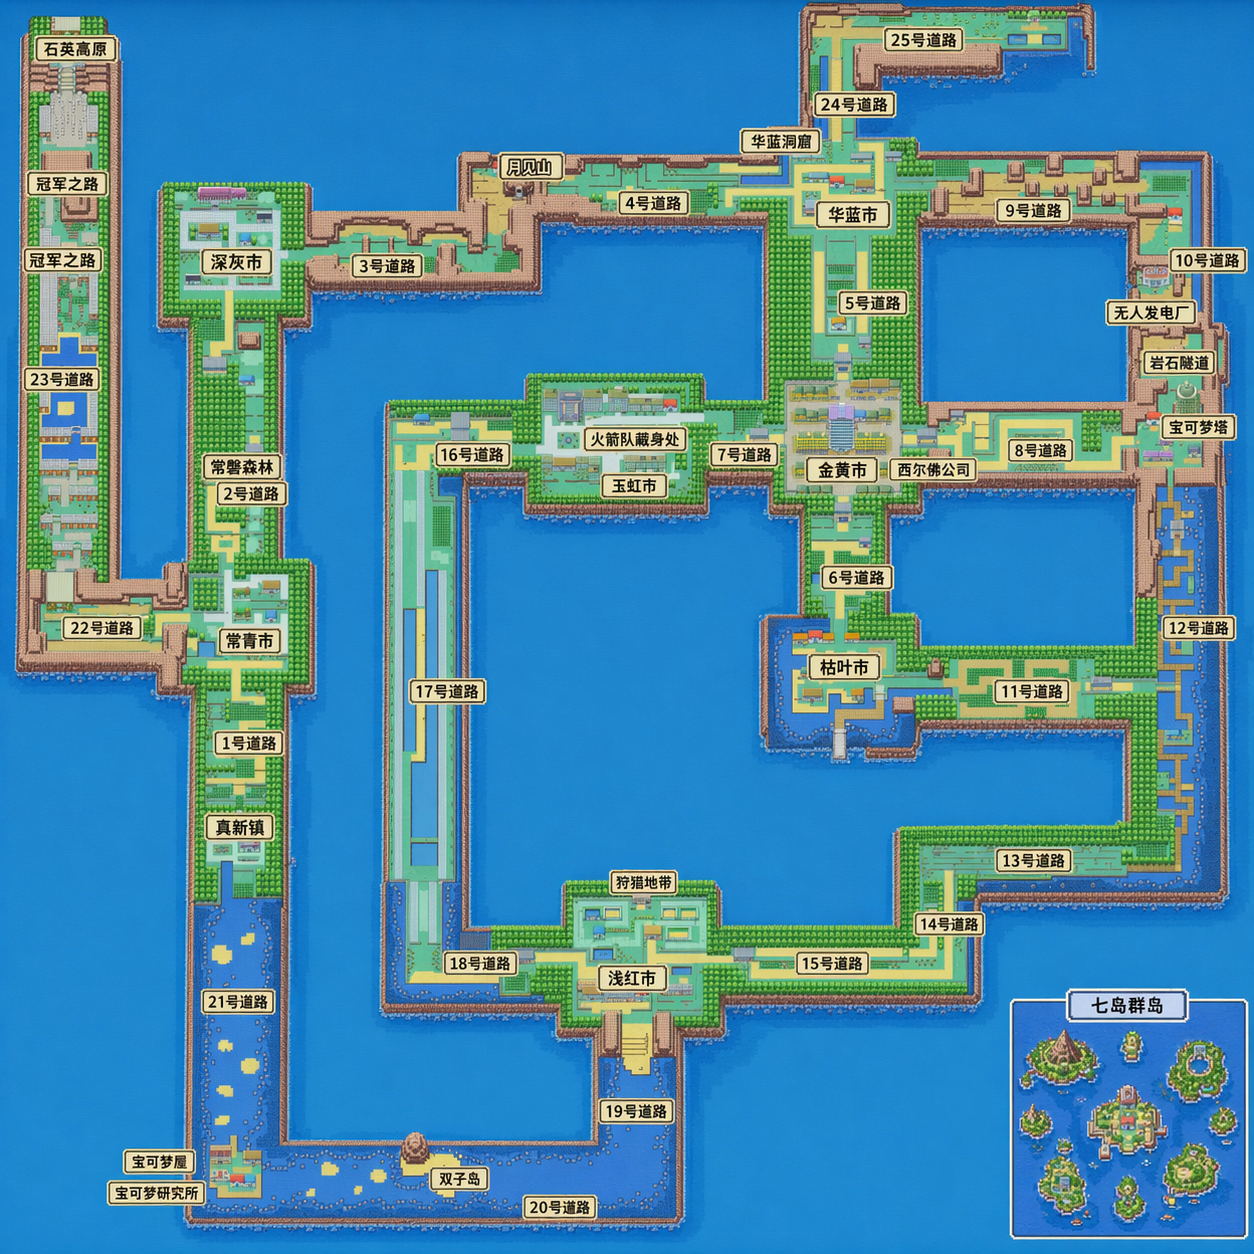
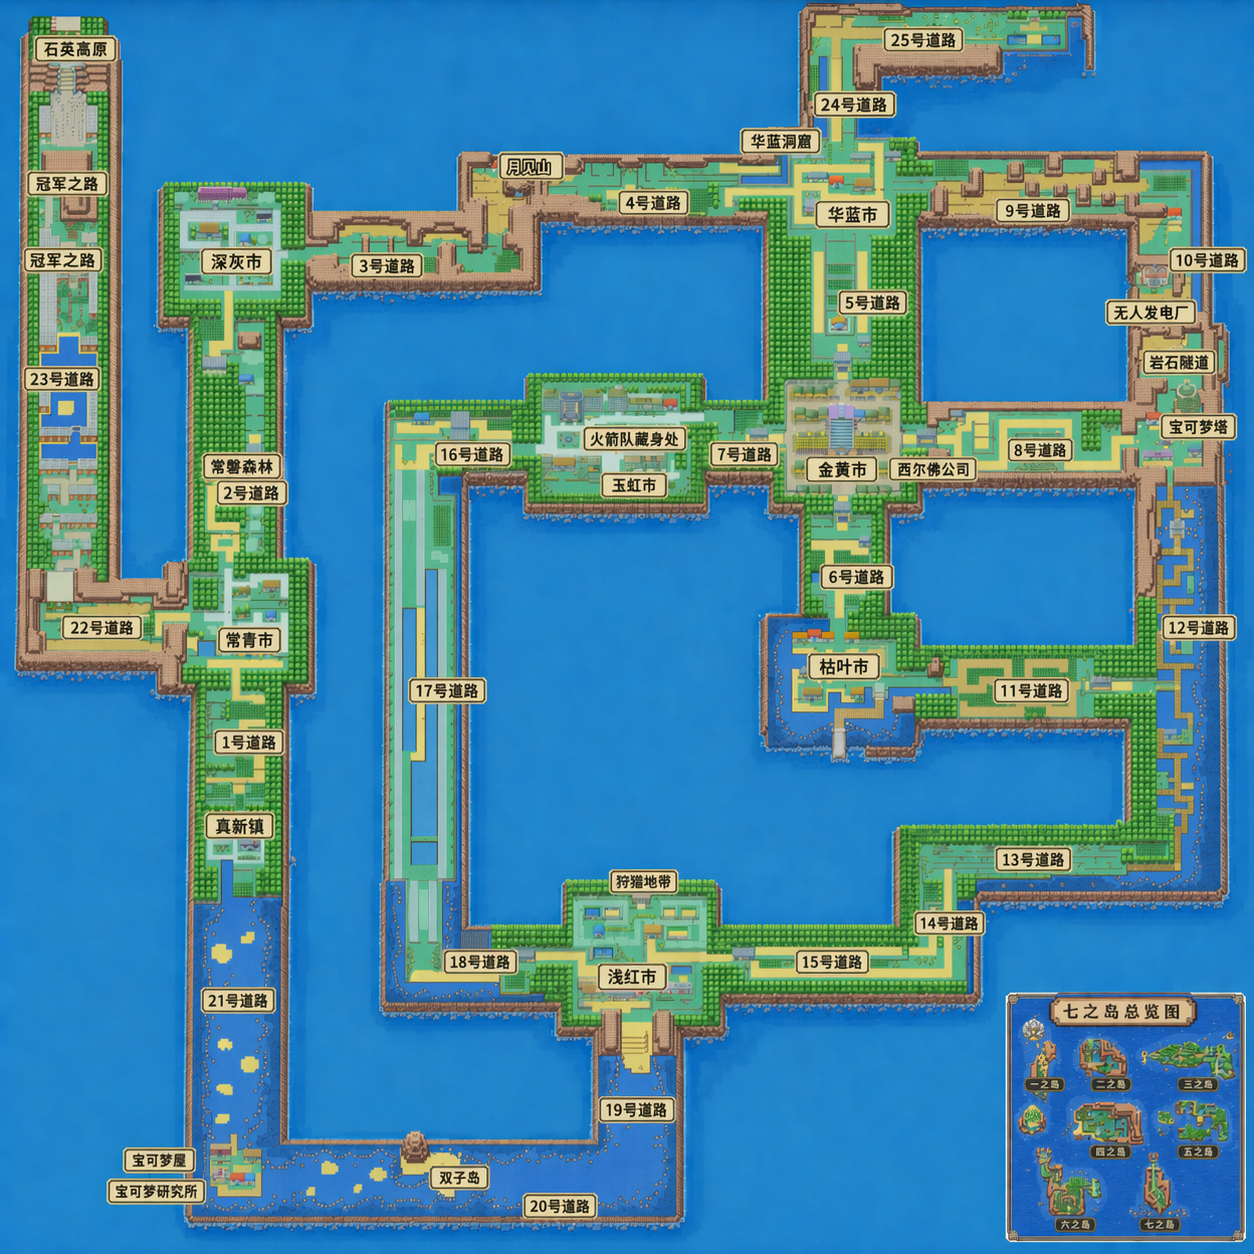
Update FRLG map assets and Sevii region hotspot

Changed region(s): [[0.0, 0.0, 1.0, 0.9952]]

diff --git a/js/frlg-map.js b/js/frlg-map.js
@@ -4,6 +4,10 @@ const FRLG_IMG = {
   island: n => `css/firered-and-leafgreen-versions-map/第${['一','二','三','四','五','六','七'][n-1]}岛.webp`,
 };
 
+const KANTO_REGIONS = [
+  { label:'🏝 七岛', action:'sevii', x:80.14, y:79.11, w:19.22, h:20.02 },
+];
+
 const KANTO_HOTSPOTS = [
   // ── 左侧纵列 ──
   { label:'23号道路', x:5,  y:8,  key:'route-23' },
@@ -45,8 +49,6 @@ const KANTO_HOTSPOTS = [
   { label:'13号道路', x:73, y:64, key:'route-13' },
   { label:'14号道路', x:70, y:76, key:'route-14' },
   { label:'15号道路', x:58, y:77, key:'route-15' },
-  // ── 七岛入口（地图右下角缩略图） ──
-  { label:'🏝 七岛', x:83, y:87, key:null, action:'sevii', highlight:true },
 ];
 
 const SEVII_HOTSPOTS = [
@@ -168,6 +170,7 @@ function frlgInitView(view) {
 
   viewer.appendChild(img);
   frlgRenderHotspots(viewer, hotspots);
+  if (frlgView === 'kanto') frlgRenderRegions(viewer, KANTO_REGIONS);
   frlgResetCalibrationSurface();
 }
 
@@ -197,6 +200,35 @@ function frlgRenderHotspots(viewer, hotspots) {
       frlgShowEncounters(resolved || hotspot.key, hotspot.label);
     };
     if (_frlgCalibMode) frlgBindHotspotDrag(el, hotspot);
+    viewer.appendChild(el);
+  });
+}
+
+function frlgRenderRegions(viewer, regions) {
+  regions.forEach(region => {
+    const el = document.createElement('div');
+    el.className = 'frlg-region';
+    el.style.position = 'absolute';
+    el.style.left = region.x + '%';
+    el.style.top = region.y + '%';
+    el.style.width = region.w + '%';
+    el.style.height = region.h + '%';
+    el.style.cursor = 'pointer';
+    el.style.background = 'transparent';
+    el.style.border = '2px dashed rgba(255, 99, 71, 0.9)';
+    el.style.boxSizing = 'border-box';
+    el.style.borderRadius = '8px';
+    el.style.zIndex = '2';
+    if (region.label) el.setAttribute('aria-label', region.label);
+    el.onclick = () => {
+      if (region.action) {
+        frlgInitView(region.action);
+        return;
+      }
+      if (!region.key) return;
+      const resolved = frlgResolveLocationKey(region.key);
+      frlgShowEncounters(resolved || region.key, region.label);
+    };
     viewer.appendChild(el);
   });
 }
